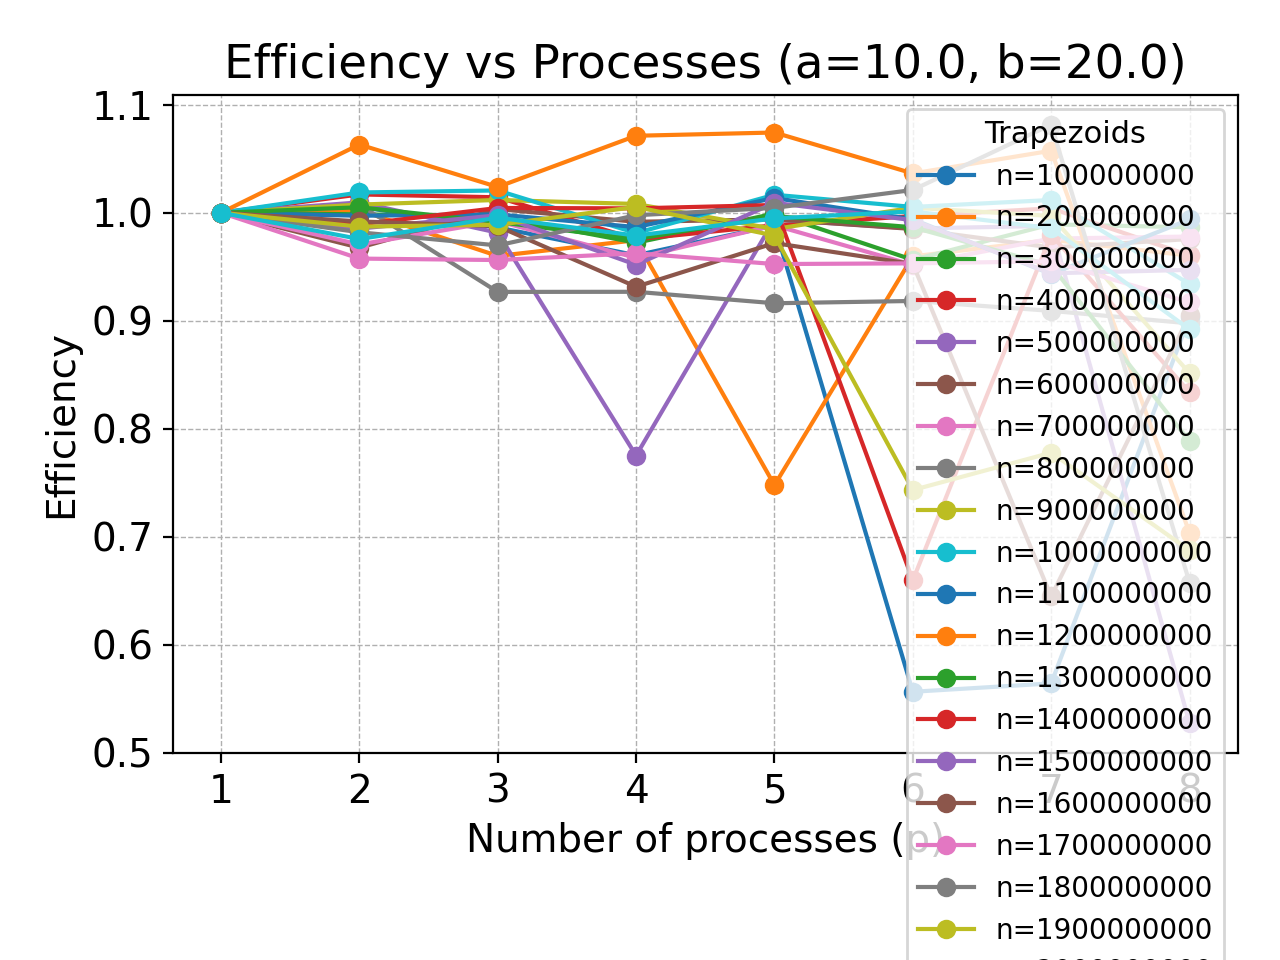
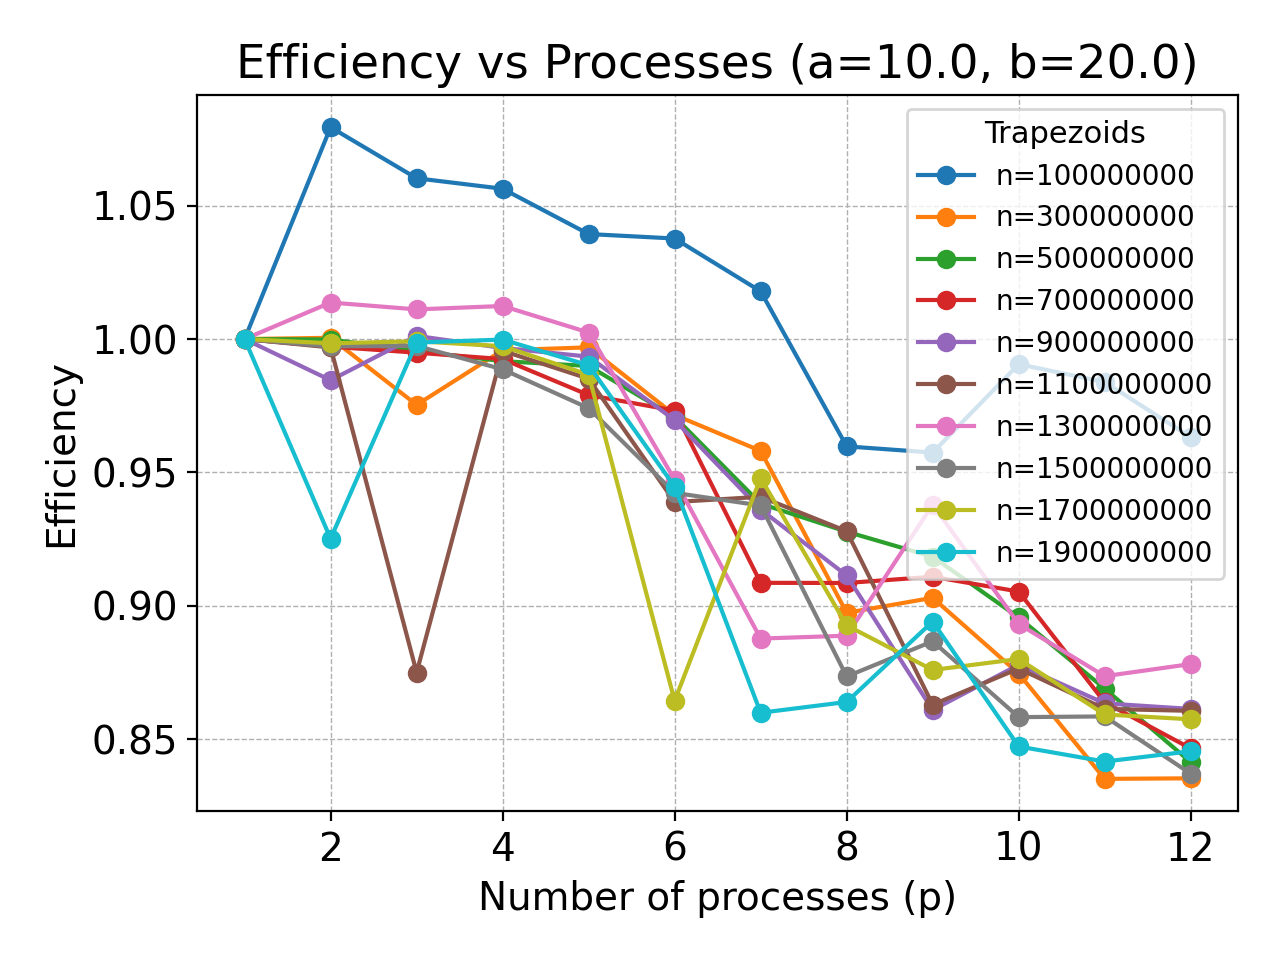
P_VALS COMMAND LINE

diff --git a/sweep/mpi_trap_sweep.py b/sweep/mpi_trap_sweep.py
@@ -285,9 +285,17 @@ def main():
     # Build sweep sets
     try:
         n_vals = inc_range(args.n1, args.n2, args.n_increment)
-        #hardcoded the p_vals to avoid long runtimes
-        #PREVIOUSLY: p_vals = inc_range(args.p1, args.p2, args.p_increment)
-        p_vals = [1, 2, 4, 8, 16, 32, 48, 64, 80, 96, 112, 128]
+        
+        if args.p2 <= 12:
+            # Just do a standard sweep 1..p2 by 1
+            p_vals = list(range(args.p1, args.p2 + 1, 1))
+        elif args.p2 == 128:
+            # Special sequence: powers of 2 up to 32, then increments of 16
+            p_vals = [1, 2, 4, 8, 16, 32, 48, 64, 80, 96, 112, 128]
+        else:
+            # Fall back to user-specified increment
+            p_vals = inc_range(args.p1, args.p2, args.p_increment)
+
     except ValueError as e:
         print(f"[ERROR] {e}", file=sys.stderr)
         sys.exit(2)

diff --git a/sweep/mpi_trap_modified.c b/sweep/mpi_trap_modified.c
@@ -1,5 +1,6 @@
 /* mpi_trap4.c: Parallel trapezoidal rule with cmdline args and minimal timing output
  * Compile: mpicc -O2 -Wall -o mpi_trap_modified mpi_trap_modified.c
+            mpicc -Wall -Wextra -o mpi_trap_modified mpi_trap_modified.c
  * Run:     mpiexec -n <np> ./mpi_trap_modified <a> <b> <n>
  * Output (rank 0 only): "<answer> <a> <b> <n> <np> <total_time_seconds>"
  */
